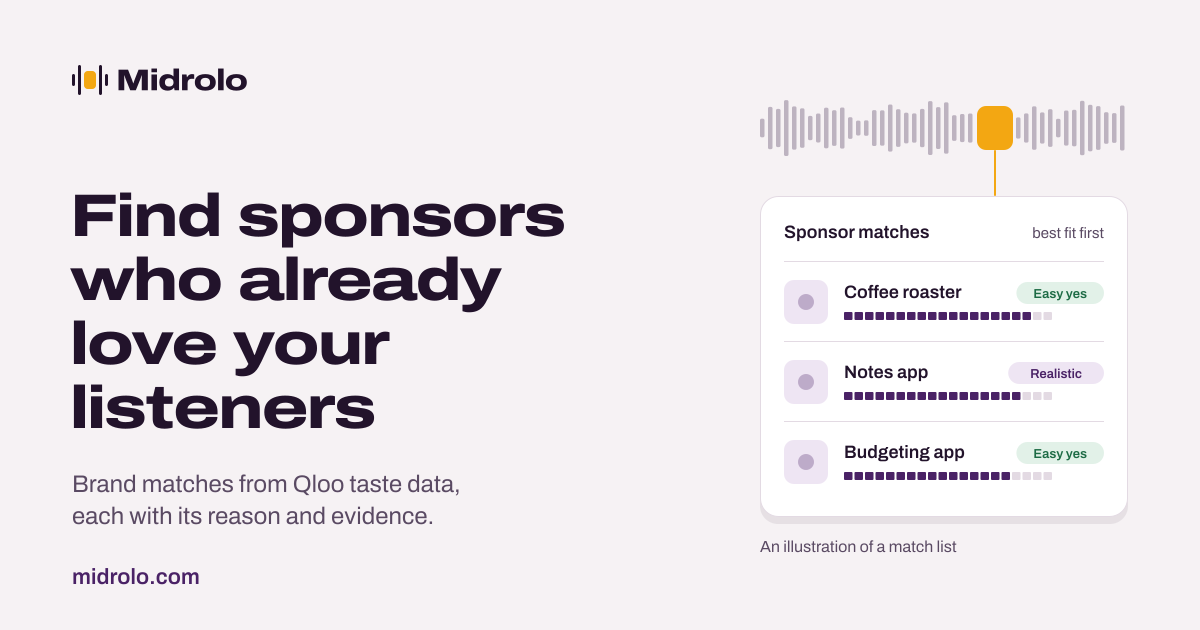
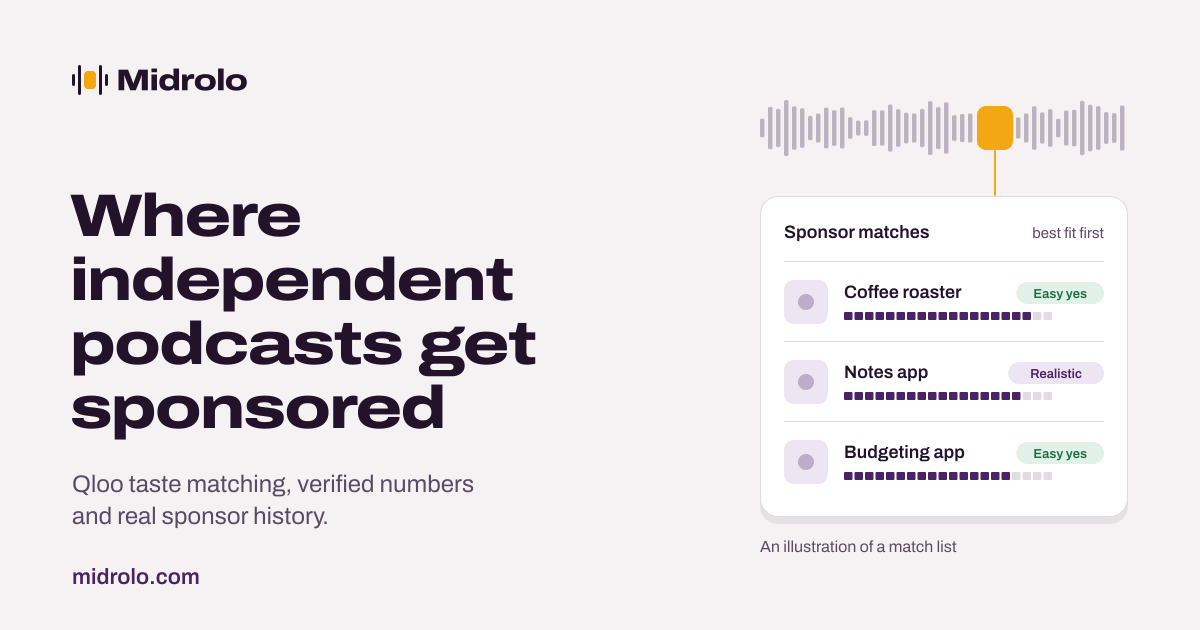
feat(brand): the share image and default title say Where independent podcasts get sponsored

Changed region(s): [[0.0617, 0.3016, 0.4933, 0.6937], [0.0617, 0.754, 0.4008, 0.8444]]

diff --git a/app/helpers/social_meta_helper.rb b/app/helpers/social_meta_helper.rb
@@ -3,7 +3,7 @@
 # page gets private_page_meta from layouts/_head: noindex, and no share image.
 module SocialMetaHelper
   DEFAULT_TITLE = "#{APP_NAME}: where independent podcasts get sponsored".freeze
-  DEFAULT_IMAGE_ALT = "#{APP_NAME}: find sponsors who already love your listeners".freeze
+  DEFAULT_IMAGE_ALT = "#{APP_NAME}: where independent podcasts get sponsored".freeze
   SHARE_IMAGE_SIZE = { width: 1200, height: 630 }.freeze
   LOCALE = "en_US".freeze
 
